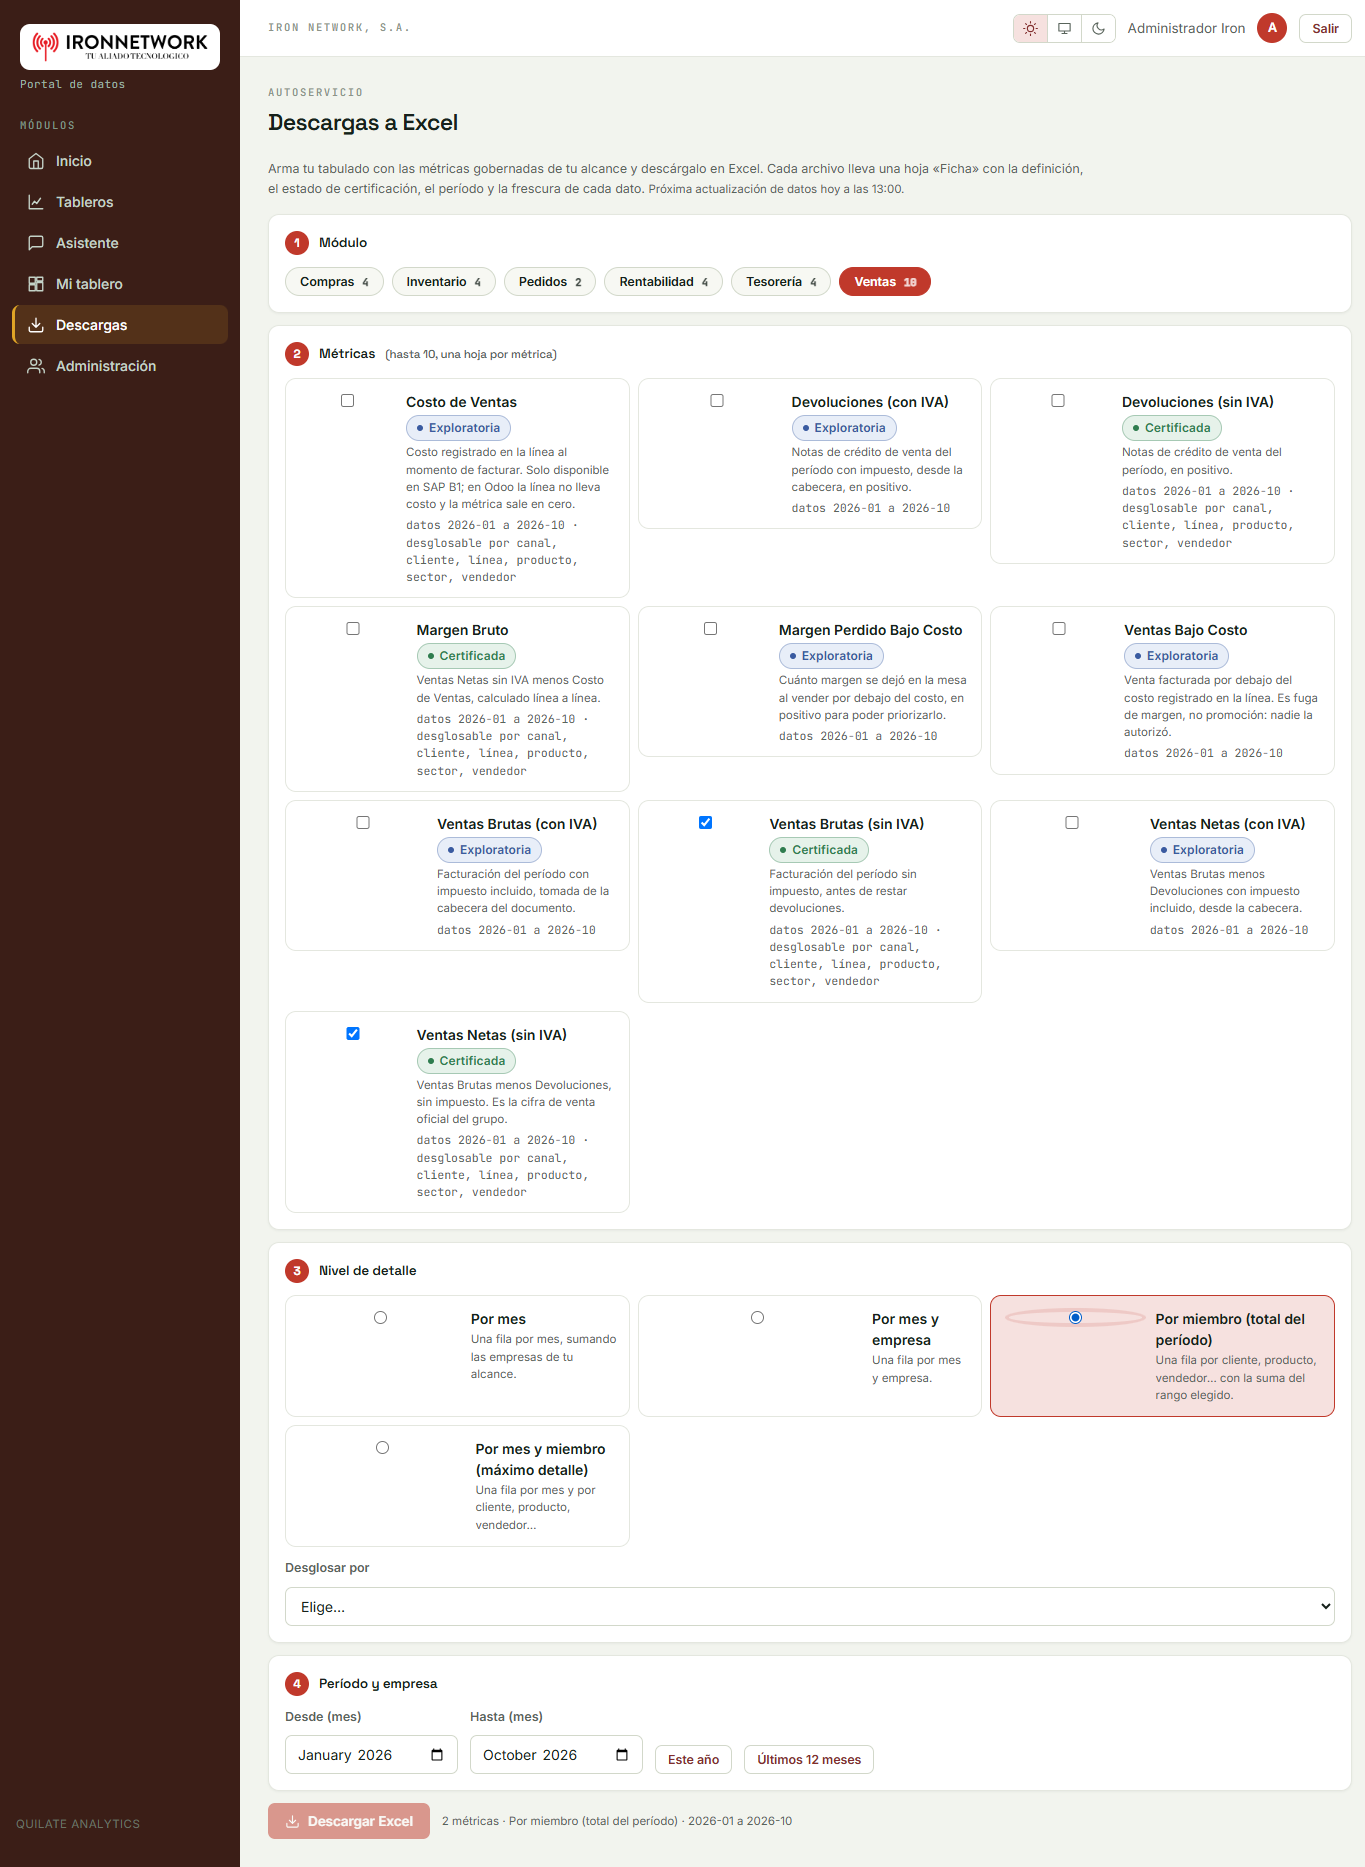
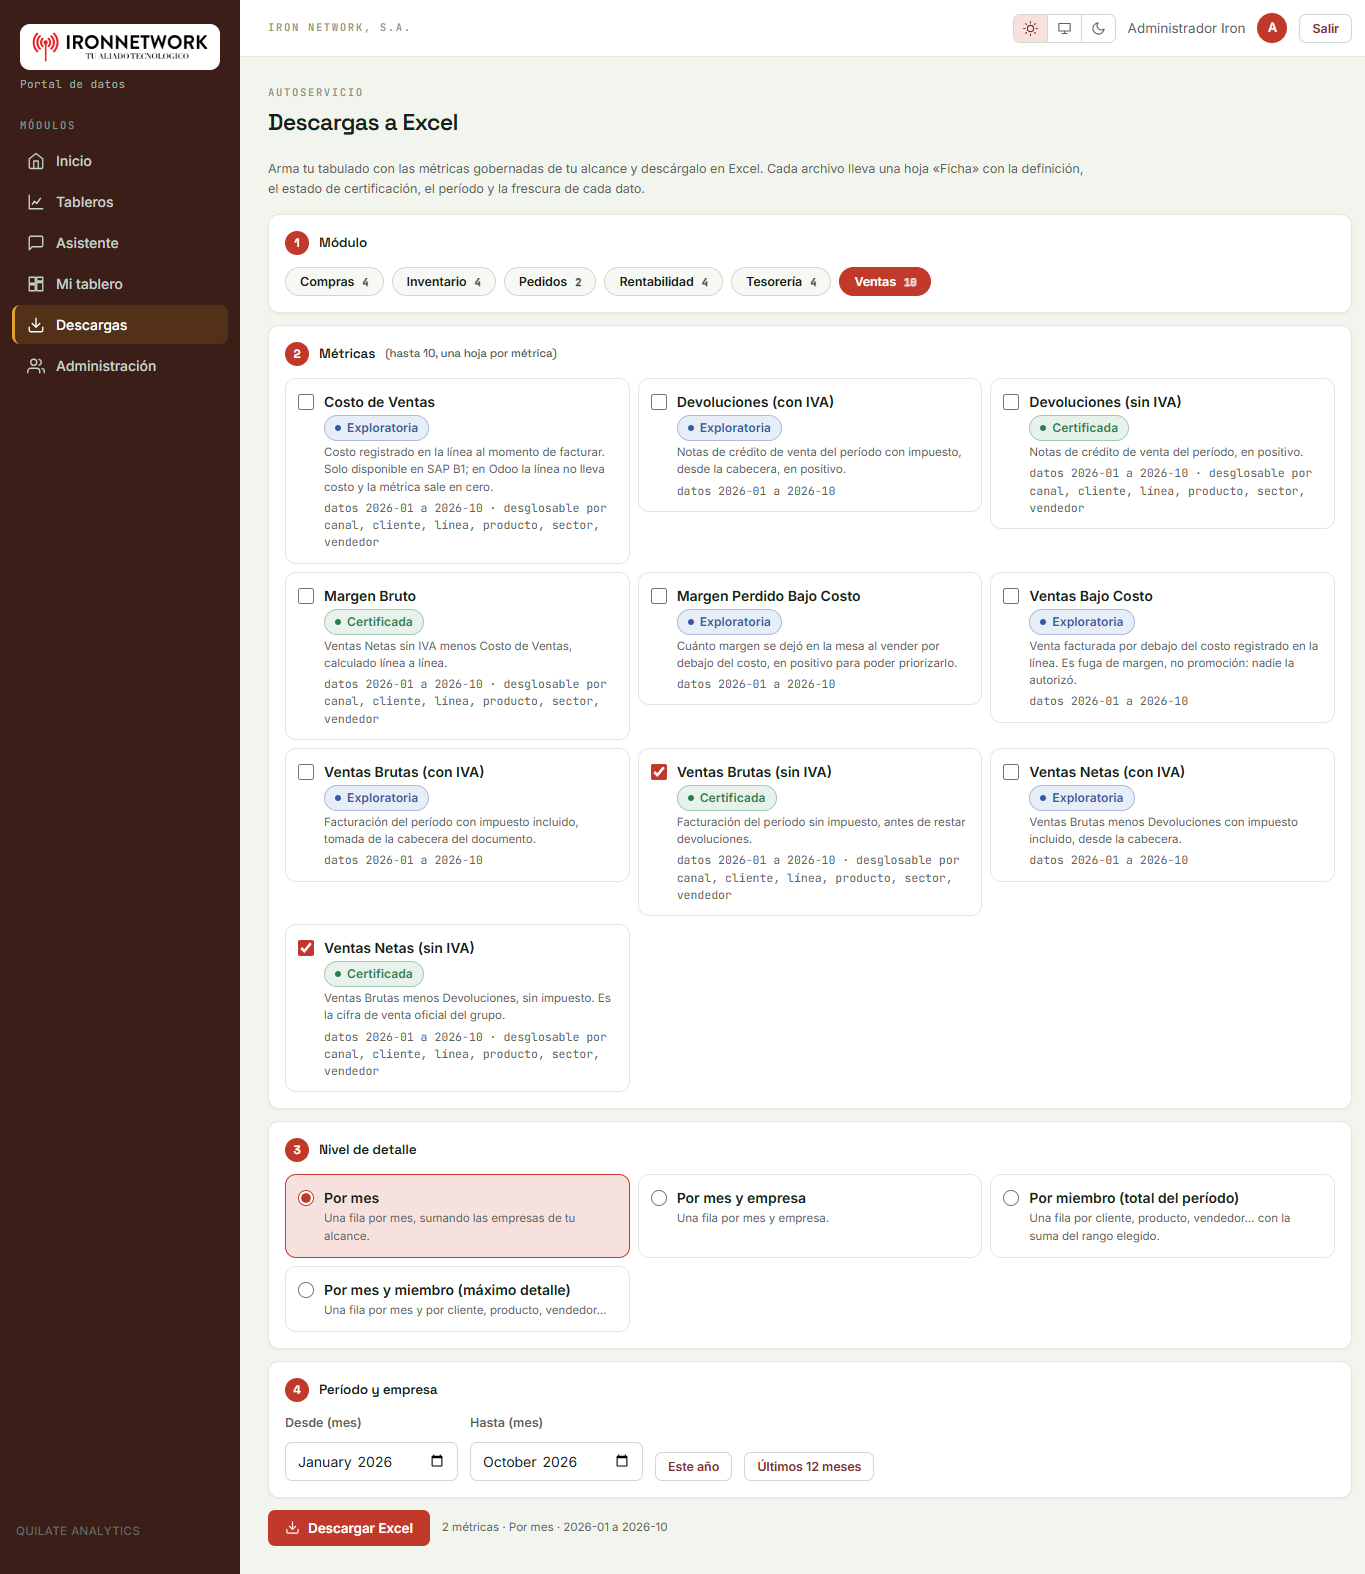
docs(sesion 36): guion de despliegue 20261031b, ajustes de pantalla en Descargas y Demanda, capturas
Claude-Session: https://claude.ai/code/session_013kvPb5XodhVctSuCjmUd55

diff --git a/.claude/SESSION.md b/.claude/SESSION.md
@@ -39,9 +39,9 @@ detalle a elección. Power BI y el despliegue a producción quedan con él.
 
 ### PENDIENTE: Edwin
 1. Power BI (sesión 35): refrescar, revisar 23 hojas, guardar, publicar; seed 58.
-2. Desplegar: generar paquete nuevo (`infra/produccion/empaquetar.sh`) y correr el guion de
-   despliegue; en el servidor aplicar **137** a cada `dw_<tenant>` y verificar que `HORAS_CARGA`
-   esté en el `.env` (ya lo usa el programador).
+2. Desplegar: `bash dist/desplegar-20261031b.sh` (toma el paquete más nuevo de `dist/`; aplica
+   136+137 a cada `dw_<tenant>`, agrega `HORAS_CARGA` al `.env` si falta y reinicia). Commit
+   `be0c6cd` + ajustes de pantalla.
 3. Si quiere datos más frescos para Iron: más horas en `HORAS_CARGA` (p. ej. `05:00 13:00 18:00`),
    no cargas por pregunta.
 
